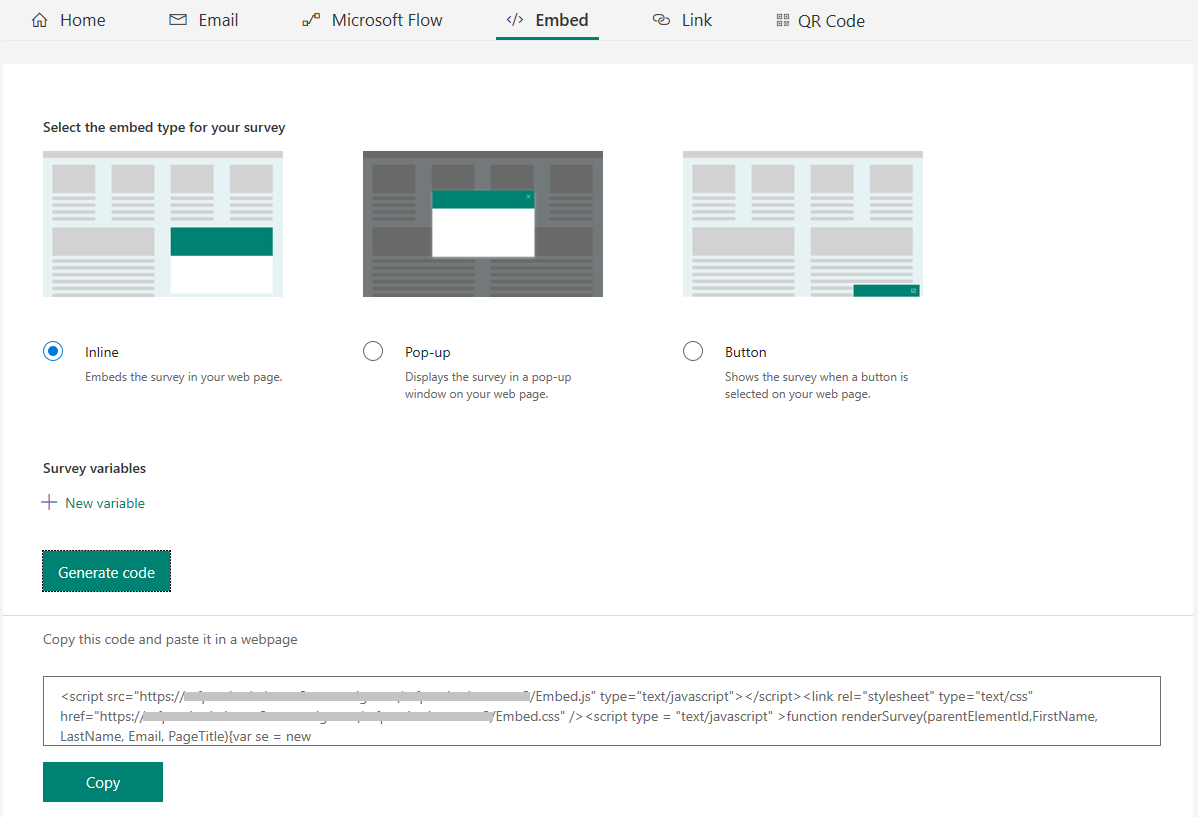
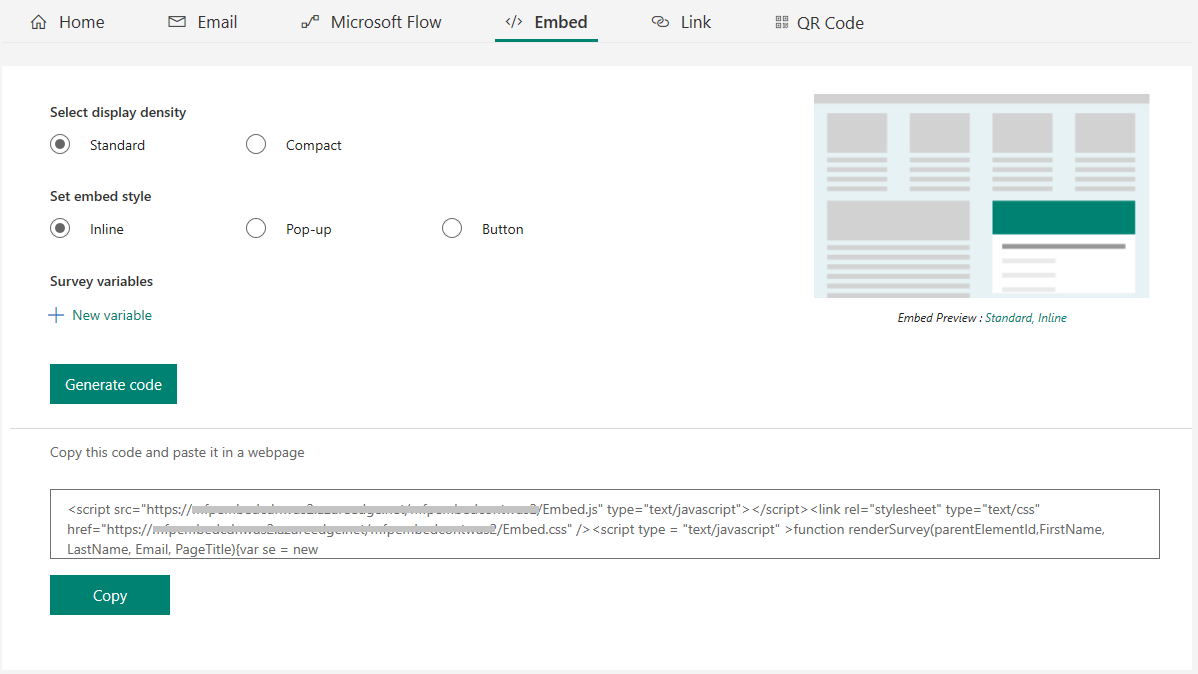
survey embed update

diff --git a/fp-docs/embed-web-page.md b/fp-docs/embed-web-page.md
@@ -6,7 +6,7 @@ author: sbmjais
 ms.author: shjais
 manager: shujoshi
 applies_to: 
-ms.date: 11/04/2019
+ms.date: 11/06/2019
 ms.service: forms-pro
 ms.topic: article
 ms.assetid: 649b3390-c3a5-4166-a014-ae3cfd14cc71
@@ -25,6 +25,12 @@ You can embed your survey in a webpage by pasting the survey's embed code into y
 
 - **Button**: Displays the survey when a button is selected. By default, the button name is **Provide feedback**.
 
+You can also select a display density for your survey. The display density controls the amount of white spaces and the size of the elements on the screen. Following options are available for the display density:
+
+- **Standard**: Displays the survey with the standard amount of white spaces and the size of the elements on the screen.
+
+- **Compact**: Displays the survey with the reduced amount of white spaces and the size of the elements on the screen. By default, **Compact** is selected. This display density is useful for displaying the survey on smaller screen devices such as mobile or tablet.
+
 If you have created survey variables, they will be used to capture your respondent's information and the context in which the response was provided and store that data in the survey response. You can also create new survey variables, if required. If the appropriate values are not passed to survey variables in the embed code, the default values will be used.
 
 The values of survey variables in a response are displayed on the **Personalized data** tab.
@@ -36,9 +42,15 @@ To embed your survey:
 
 1.  Open the survey you want to embed, and select **Send** from the toolbar at the top of the page. 
 
-2. Select **Embed**.
+2.  Select **Embed**.
 
-3.  Under **Select the embed type for your survey**, select one of the following options:
+3. Under **Select display density**, select one of the following options:
+
+    - Standard
+
+    - Compact
+
+4.  Under **Set embed style**, select one of the following options:
 
     -   Inline
 
@@ -46,11 +58,11 @@ To embed your survey:
 
     -   Button
 
-4.  Optionally, under **Survey variables**, select **New variable** to create a new variable.
+5.  Optionally, under **Survey variables**, select **New variable** to create a new variable.
 
-5.  Select **Generate code**. The embed code is generated as per the selected embed type.
+6.  Select **Generate code**. The embed code is generated as per the selected options.
 
-6.  Select **Copy**, and then paste the embed code into a webpage to embed your survey. You must then update the webpage’s source code to render the survey on the webpage. For information on how to update the source code, see [Update a webpage's source code](#update-a-webpages-source-code).  
+7.  Select **Copy**, and then paste the embed code into a webpage to embed your survey. You must then update the webpage’s source code to render the survey on the webpage. For information on how to update the source code, see [Update a webpage's source code](#update-a-webpages-source-code).  
 
     > [!div class=mx-imgBorder]
     > ![embed a survey in a webpage](media/survey-embed.png "Embed a survey in a webpage")  
